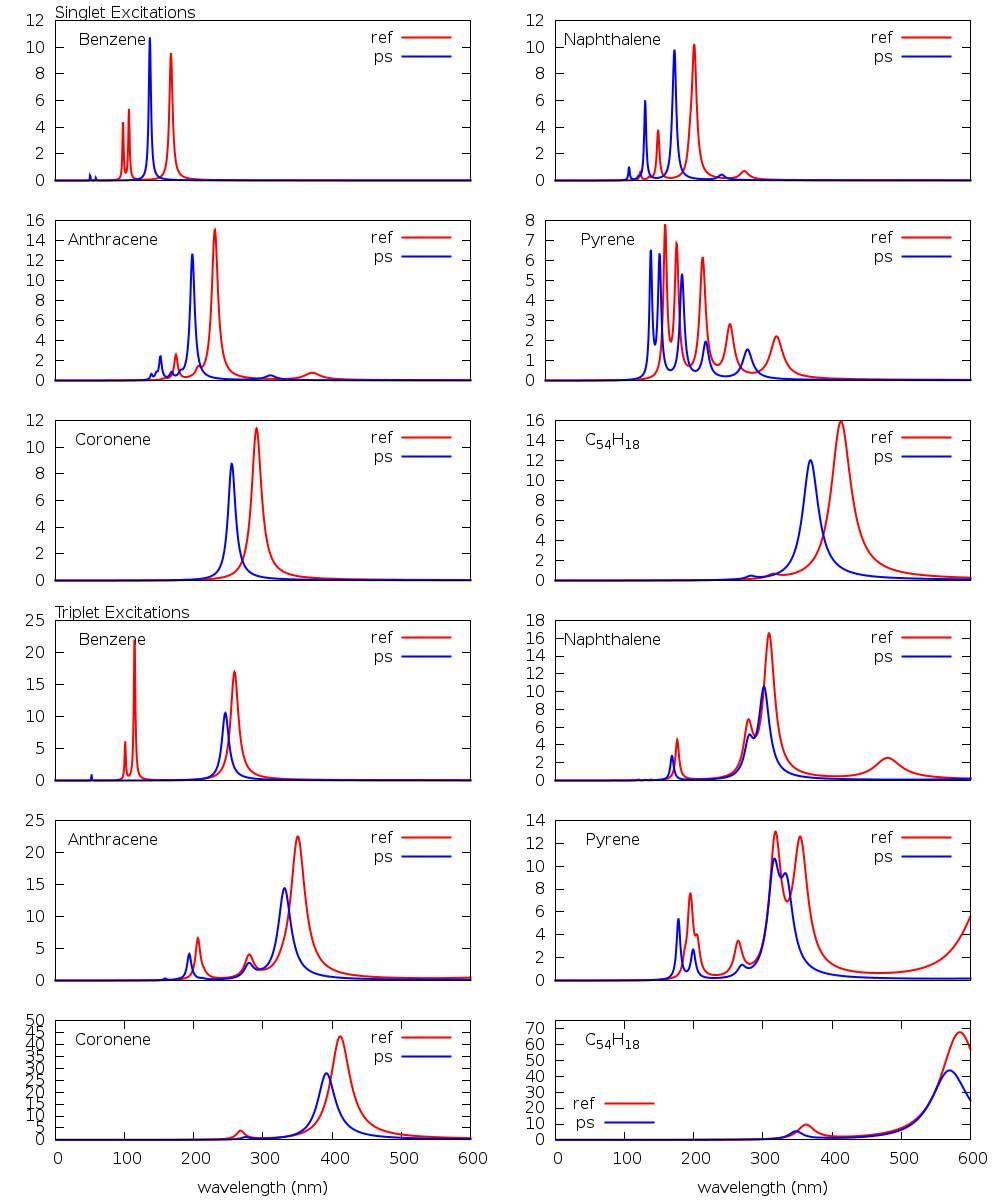
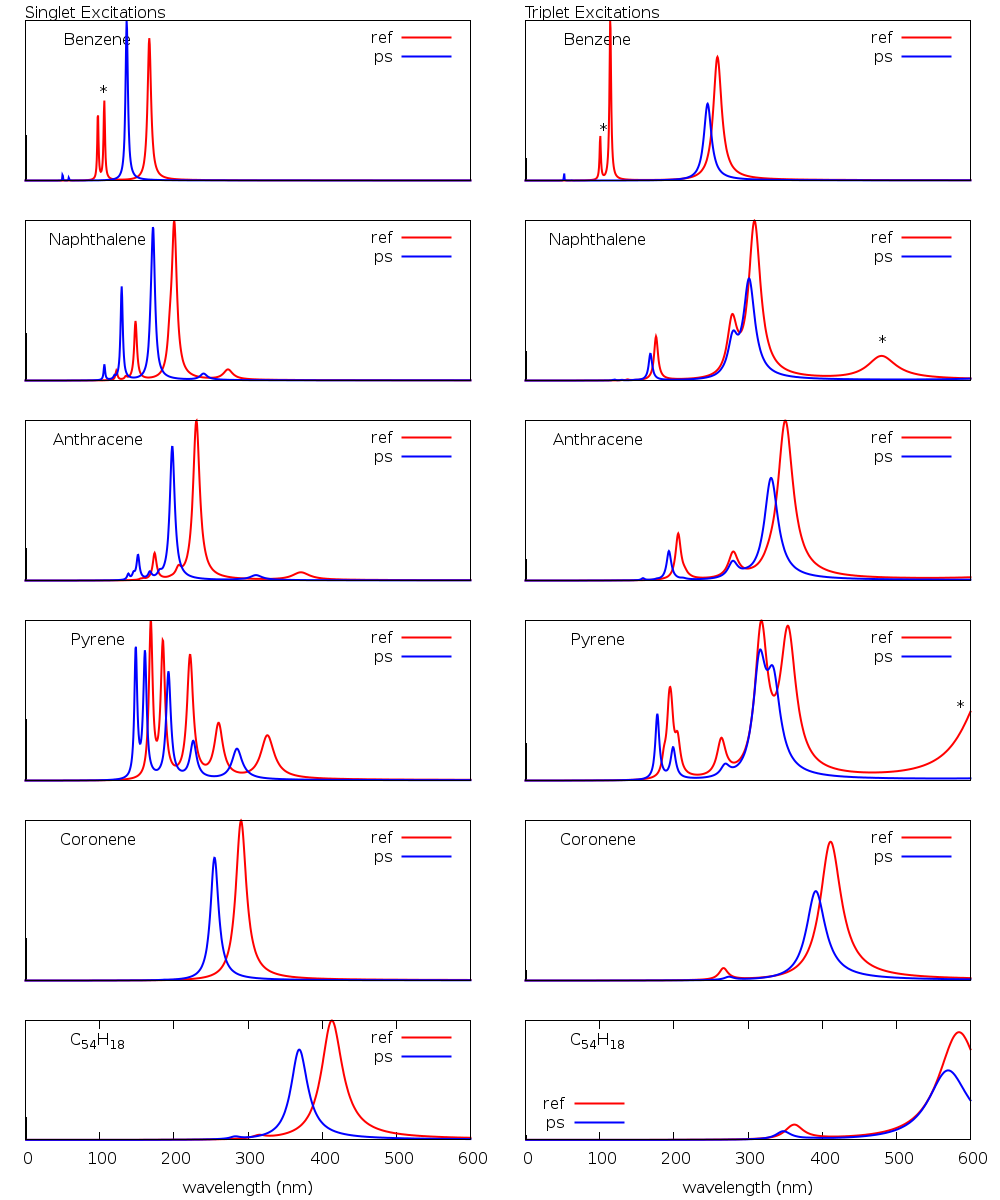
modification of the uv spectra

diff --git a/main.tex b/main.tex
@@ -360,7 +360,8 @@ This confirms that the results obtained are not artefactual but that the pseudo 
 lead to a physically relevant electronic density.
 Yet, one can note that the position of the critical points are not exactly the same in both
 calculations and that the pseudo potential lead to a more diffuse $\pi$ bonding pattern.
-However, as both images are obtained with the same scale, 
+However, as both images are obtained with the same scale, one can see that the topology
+of the electronic density is in both cases very similar.
 
 \subsection*{\sffamily \large Timings}
 The model that we develop in this work allows significant computational gains.
@@ -639,7 +640,9 @@ C\(_{54}\)H\(_{18}\) is shown in the bottom.}
 \end{center}
 \vspace{0.25in}
 \hspace*{3in}
-\caption{Comparison of the absorption spectra for the first 20 excitations obtained with pseudo-potentials (ps) and all-electron (ref) calculations (def2-SV(P)/TD-PBE0).}
+\caption{Comparison of the absorption spectra for the first 20 excitations obtained with
+pseudo-potentials (ps) and all-electron (ref) calculations (def2-SV(P)/TD-PBE0). Peaks marked
+with * cannot be reproduced by the pseudo-potentials as they imply $\sigma$ orbitals.}
 \label{fig:cnhn_uv}
 \end{figure}
 
